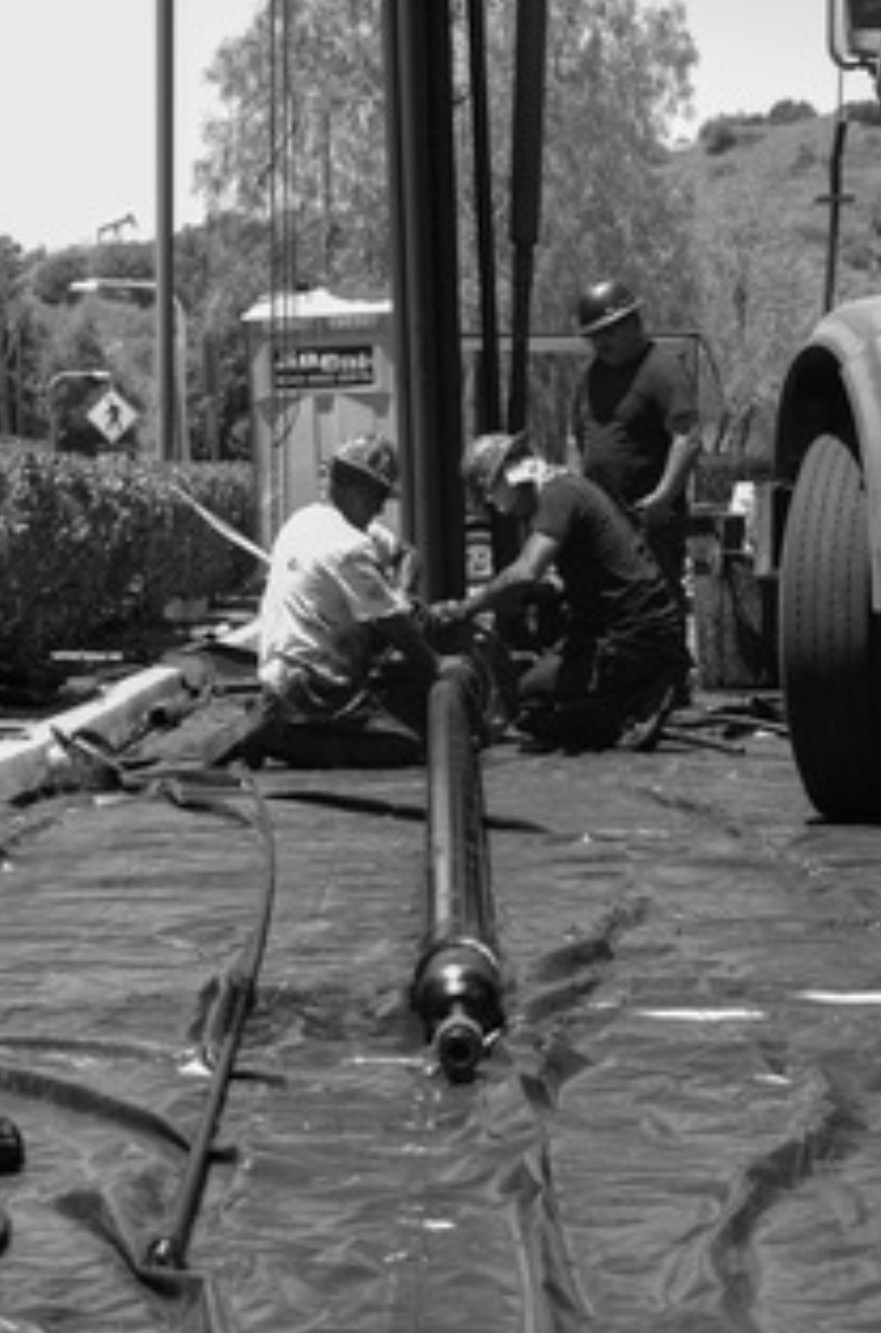
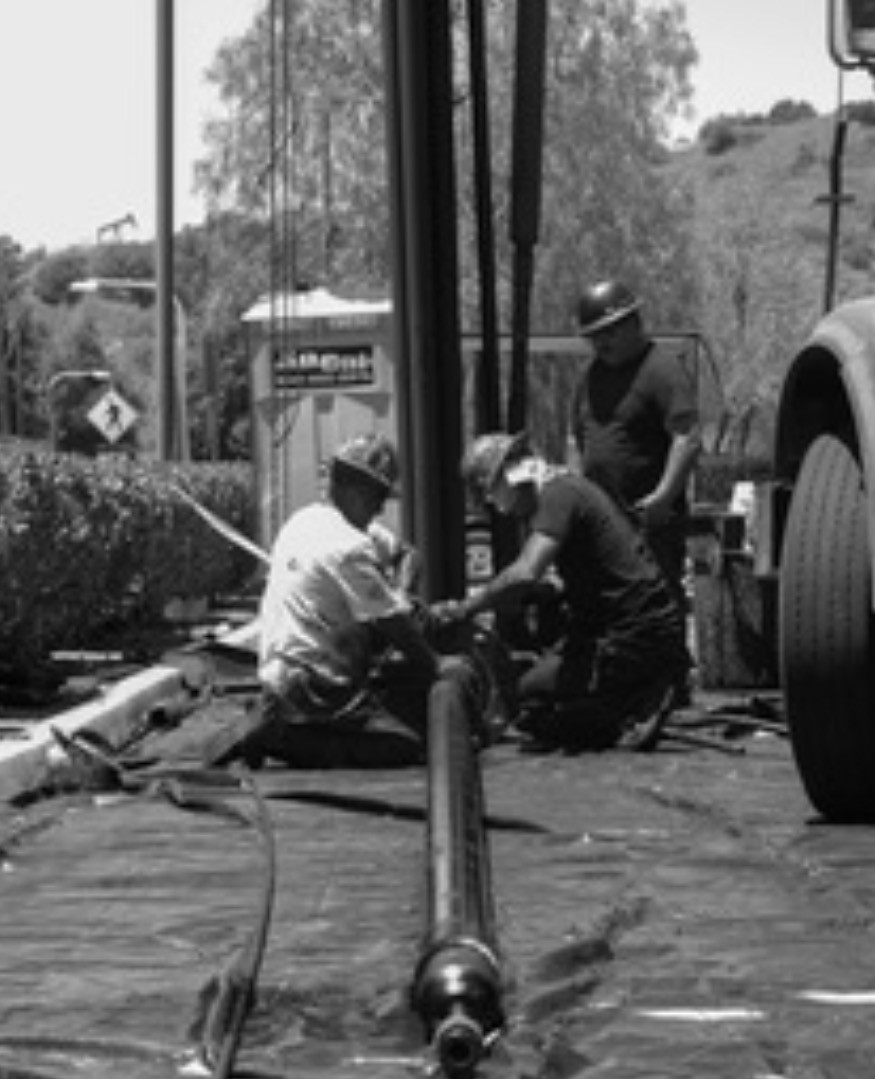
Updated images

diff --git a/index.html b/index.html
@@ -249,8 +249,8 @@
 <section id="gallery" class="container" style="margin:60px auto;">
   <h2>Field Gallery</h2>
   <div class="carousel" style="position:relative;max-width:100%;overflow:hidden;">
-    <img id="carousel-image" src="images/IMG_0243.jpeg"
-    style="width:100%;height:650px;object-fit:cover;object-position:center;display:block;border-radius:6px;">
+    <img id="carousel-image" src="images/IMG_1583.jpg"
+    style="width:100%;height:1000px;object-fit:cover;object-position:center;display:block;border-radius:6px;">
 
     <button onclick="prevSlide()" 
     style="position:absolute;top:50%;left:10px;transform:translateY(-50%);font-size:24px;background:rgba(0,0,0,0.5);color:white;border:none;padding:8px 12px;cursor:pointer;">‹</button>
@@ -272,18 +272,21 @@
 
 <script>
 const images = [
-"images/IMG_0243.jpeg",
+"images/IMG_1583.jpg",
+"images/IMG_1584.jpg",
+"images/IMG_1585.jpg",
+"images/IMG_1586.jpg",
+"images/IMG_1587.jpg",
+"images/IMG_1588.jpg",
+"images/IMG_1589.jpg",
+"images/IMG_1590.jpg",
+"images/IMG_1591.jpg",
 "images/IMG_1577.jpg",
 "images/IMG_1578.jpg",
 "images/IMG_1579.jpg",
 "images/IMG_1580.jpg",
 "images/IMG_1581.jpg",
 "images/IMG_1582.jpg",
-"images/IMG_1583.jpg",
-"images/IMG_1584.jpg",
-"images/IMG_1585.jpg",
-"images/IMG_1586.jpg",
-"images/IMG_1587.jpg"
 ];
 let currentIndex = 0;
 

diff --git a/styles.css b/styles.css
@@ -1699,7 +1699,7 @@ body.menu-open {
 
 .carousel img {
   width: 100%;
-  height: 200px;
+  height: 300px;
   object-fit: cover;   
   object-position: center;
 }
